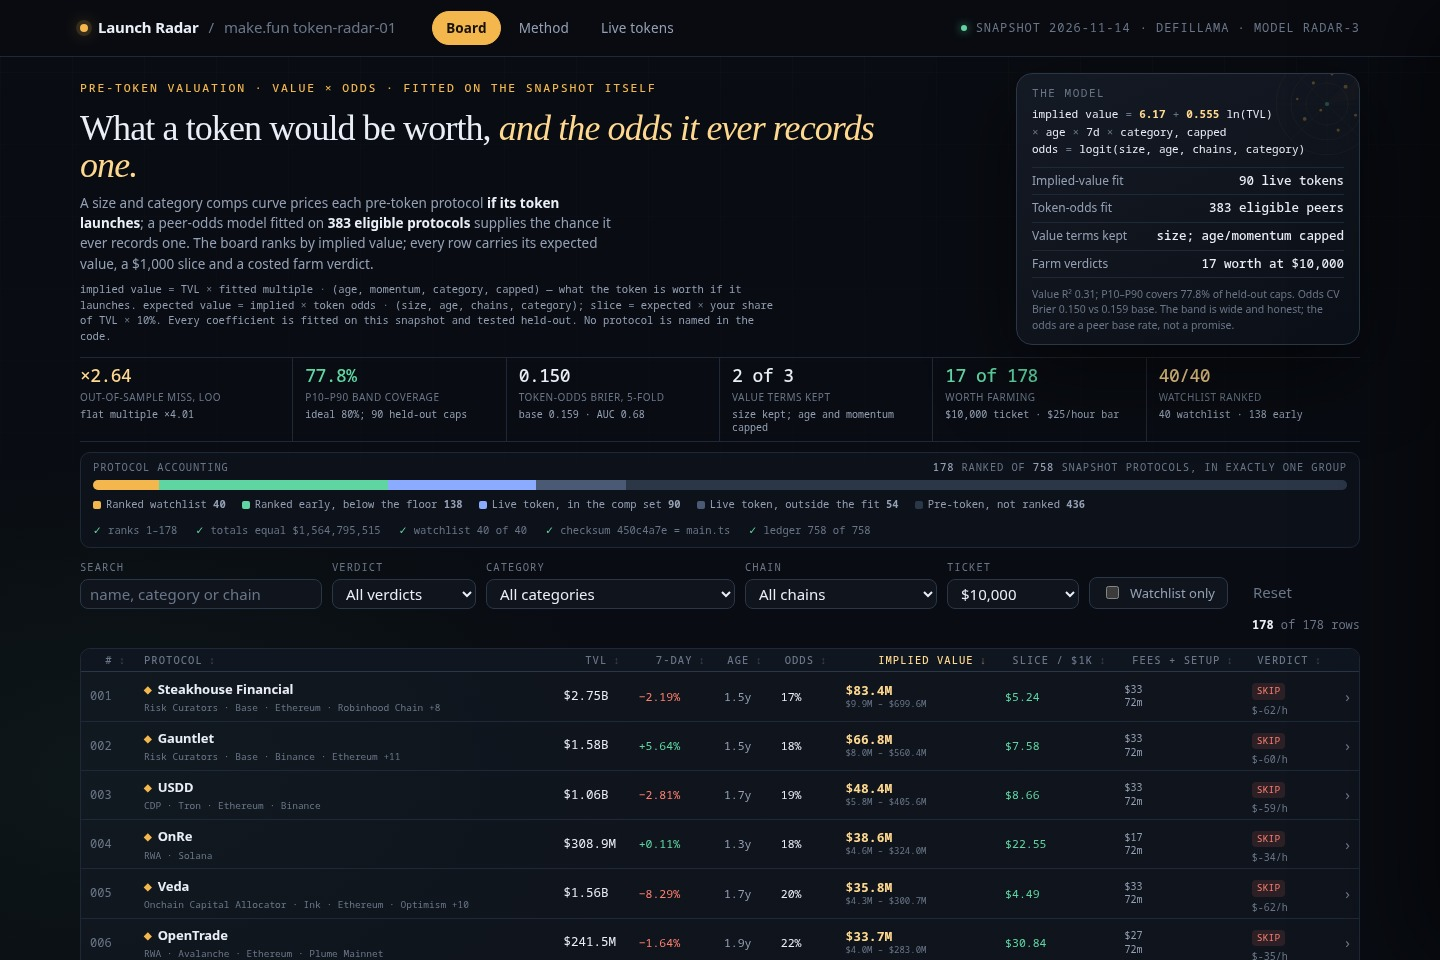
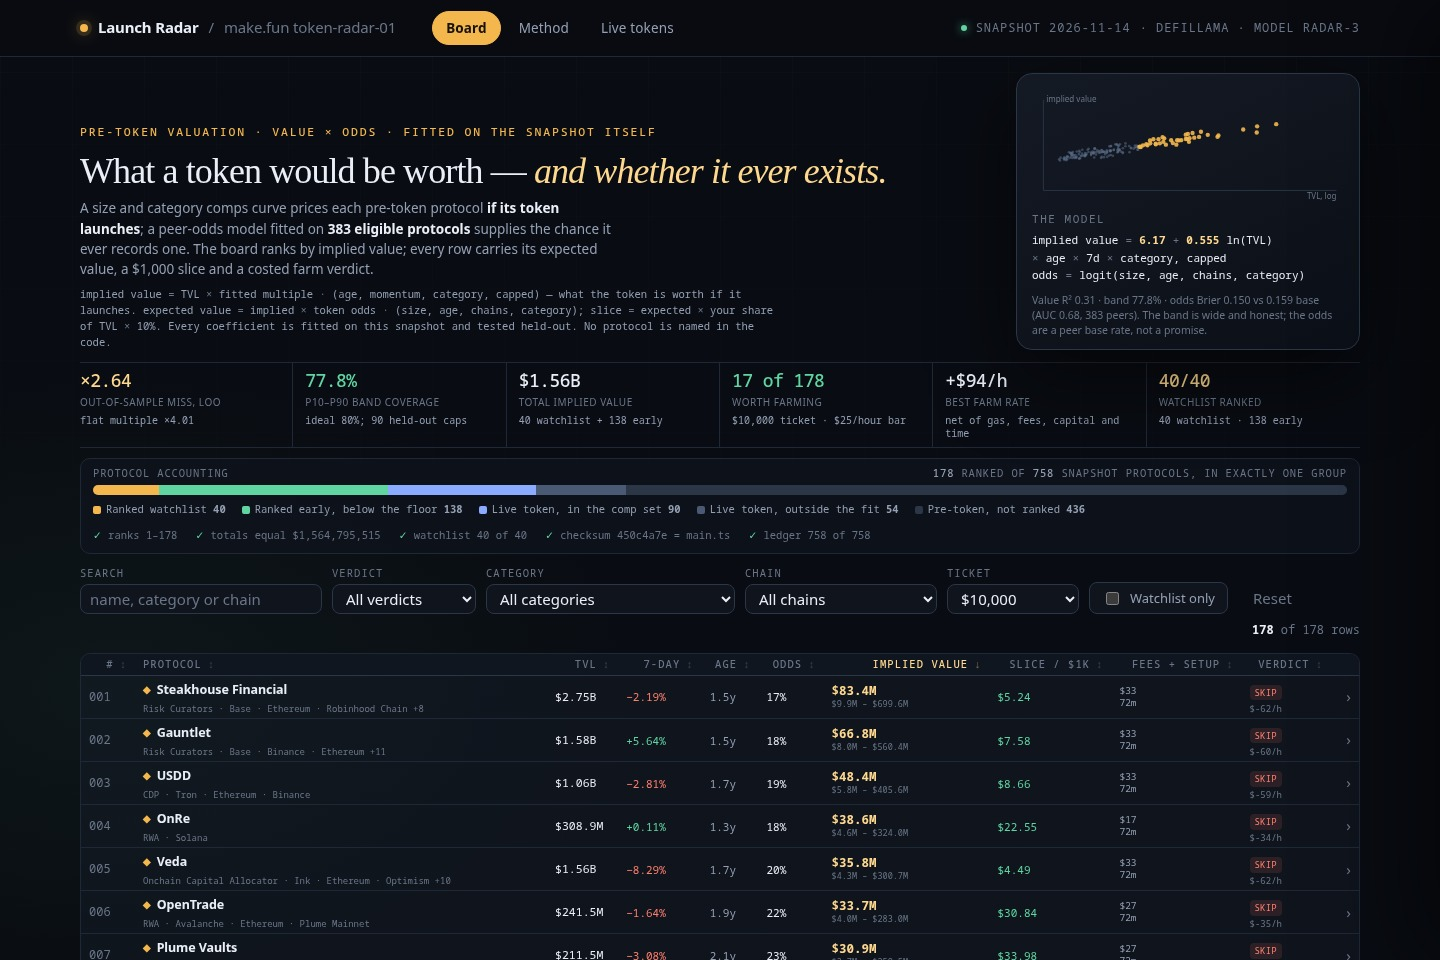
Launch Radar v4: value map, total-implied and best-rate tiles, launch-value ranking

diff --git a/dashboard/app.css b/dashboard/app.css
@@ -110,13 +110,9 @@ h1 em { font-style: italic; color: var(--amber-2); }
 .eq { margin: 0 0 9px; color: var(--ink); font: 11px/1.6 var(--mono); word-spacing: 0.5px; }
 .eq b { color: var(--amber-2); font-weight: 600; }
 .eq .op { color: var(--dim); }
-.factors { list-style: none; margin: 0; padding: 0; border-top: 1px solid var(--line); }
-.factors li { display: grid; grid-template-columns: 1fr auto; gap: 8px; padding: 4px 0; border-bottom: 1px solid var(--line); font-size: 12px; }
-.factors li span:first-child { color: var(--muted); }
-.factors li b { font: 500 12.5px/1.4 var(--mono); color: var(--ink); }
 .card-foot { margin: 9px 0 0; color: var(--dim); font-size: 10.5px; line-height: 1.45; }
-.radar { position: absolute; right: -30px; top: -32px; width: 124px; height: 124px; opacity: 0.28; }
-.radar svg { width: 100%; height: 100%; display: block; }
+.value-map { margin: 0 0 8px; }
+.value-map svg { width: 100%; height: 118px; display: block; }
 
 /* tiles */
 .tiles { display: grid; grid-template-columns: repeat(6, 1fr); border-block: 1px solid var(--line); margin: 0 0 10px; }
@@ -171,7 +167,7 @@ h1 em { font-style: italic; color: var(--amber-2); }
 table { width: 100%; border-collapse: collapse; }
 thead th {
   position: sticky; top: 0; z-index: 2;
-  padding: 6px 9px; background: #101620;
+  padding: 5px 8px; background: #101620;
   border-bottom: 1px solid var(--line-2);
   color: var(--dim); font: 500 10.5px/1 var(--mono); letter-spacing: 0.1em; text-transform: uppercase; text-align: left;
   white-space: nowrap;
@@ -185,29 +181,29 @@ tbody tr { border-bottom: 1px solid var(--line); cursor: pointer; }
 tbody tr:last-child { border-bottom: 0; }
 tbody tr:hover { background: rgba(243, 183, 78, 0.045); }
 tbody tr.open { background: rgba(243, 183, 78, 0.06); }
-tbody td { padding: 5px 9px; vertical-align: middle; }
+tbody td { padding: 3px 8px; vertical-align: middle; }
 td.rank { width: 54px; color: var(--dim); font: 12px/1 var(--mono); }
 .proto { display: flex; flex-direction: column; gap: 3px; }
-.proto b { font-size: 13px; font-weight: 600; letter-spacing: -0.005em; }
-.proto small { color: var(--dim); font: 9.5px/1.3 var(--mono); }
+.proto b { font-size: 12.5px; font-weight: 600; letter-spacing: -0.005em; }
+.proto small { color: var(--dim); font: 9px/1.25 var(--mono); }
 .proto .watch { color: var(--amber); margin-right: 6px; font-size: 10px; vertical-align: 1px; }
-td.money { font: 12.5px/1 var(--mono); white-space: nowrap; }
-td.growth { font: 11.5px/1 var(--mono); white-space: nowrap; }
+td.money { font: 11.5px/1 var(--mono); white-space: nowrap; }
+td.growth { font: 11px/1 var(--mono); white-space: nowrap; }
 td.growth.up { color: var(--mint); }
 td.growth.down { color: var(--red); }
-td.age { color: var(--muted); font: 11.5px/1 var(--mono); white-space: nowrap; }
+td.age { color: var(--muted); font: 11px/1 var(--mono); white-space: nowrap; }
 td.value { min-width: 150px; }
-td.odds { font: 11.5px/1 var(--mono); white-space: nowrap; }
-td.slice { color: var(--mint); font: 11.5px/1 var(--mono); white-space: nowrap; }
-td.fees { color: var(--muted); font: 10px/1.35 var(--mono); white-space: nowrap; }
-td.value b { display: block; font: 600 13px/1 var(--mono); color: var(--amber-2); }
-td.value small { display: block; margin-top: 2px; color: var(--dim); font: 9px/1.2 var(--mono); }
+td.odds { font: 11px/1 var(--mono); white-space: nowrap; }
+td.slice { color: var(--mint); font: 11px/1 var(--mono); white-space: nowrap; }
+td.fees { color: var(--muted); font: 9.5px/1.3 var(--mono); white-space: nowrap; }
+td.value b { display: block; font: 600 12.5px/1 var(--mono); color: var(--amber-2); }
+td.value small { display: block; margin-top: 2px; color: var(--dim); font: 8.5px/1.2 var(--mono); }
 td.verdict { white-space: nowrap; }
-.badge { display: inline-block; padding: 1px 5px; border-radius: 4px; font: 9.5px/1.5 var(--mono); letter-spacing: 0.02em; text-transform: uppercase; }
+.badge { display: inline-block; padding: 1px 5px; border-radius: 4px; font: 9px/1.5 var(--mono); letter-spacing: 0.02em; text-transform: uppercase; }
 .badge.worth { background: rgba(95, 214, 162, 0.14); color: var(--mint); }
 .badge.marginal { background: rgba(243, 183, 78, 0.14); color: var(--amber-2); }
 .badge.skip { background: rgba(255, 127, 110, 0.12); color: var(--red); }
-td.verdict small { display: block; margin-top: 3px; color: var(--dim); font: 10px/1.2 var(--mono); }
+td.verdict small { display: block; margin-top: 2px; color: var(--dim); font: 9px/1.2 var(--mono); }
 td.chev { width: 28px; color: var(--dim); text-align: right; }
 .footnote { margin: 12px 2px 0; color: var(--dim); font-size: 12px; }
 .footnote b { color: var(--muted); font-weight: 500; }

diff --git a/dashboard/app.js b/dashboard/app.js
@@ -72,7 +72,27 @@
 
   // ------------------------------------------------------------------ chrome, tiles, ledger
 
+  function renderValueMap() {
+    var el = $('value-map');
+    if (!el) return;
+    var w = 330, h = 118, pad = 12, x0 = 6.5, x1 = 10.2, y0 = 5.0, y1 = 9.0;
+    var sx = function (v) { return pad + (v - x0) / (x1 - x0) * (w - pad - 8); };
+    var sy = function (v) { return h - pad - (v - y0) / (y1 - y0) * (h - pad - 10); };
+    var out = '<svg viewBox="0 0 ' + w + ' ' + h + '" role="img" aria-label="TVL against implied value, log scales">';
+    out += '<line x1="' + pad + '" y1="' + (h - pad) + '" x2="' + (w - 8) + '" y2="' + (h - pad) + '" stroke="#2b3647"/>';
+    out += '<line x1="' + pad + '" y1="10" x2="' + pad + '" y2="' + (h - pad) + '" stroke="#2b3647"/>';
+    out += '<text x="' + (w - 8) + '" y="' + (h - 3) + '" text-anchor="end" fill="#6a7688" font-size="8.5">TVL, log</text>';
+    out += '<text x="' + (pad + 3) + '" y="12" fill="#6a7688" font-size="8.5">implied value</text>';
+    rows.forEach(function (r) {
+      var cx = sx(Math.log10(Math.max(1, r.tvl))), cy = sy(Math.log10(Math.max(1, r.implied)));
+      if (cx < pad || cx > w - 8 || cy < 10 || cy > h - pad) return;
+      out += '<circle cx="' + cx.toFixed(1) + '" cy="' + cy.toFixed(1) + '" r="' + (r.watch ? 2.3 : 1.4) + '" fill="' + (r.watch ? '#f3b74e' : '#5a6b86') + '" fill-opacity="' + (r.watch ? 0.9 : 0.55) + '"/>';
+    });
+    el.innerHTML = out + '</svg>';
+  }
+
   function renderChrome() {
+    renderValueMap();
     $('top-date').textContent = 'snapshot ' + M.as_of;
     $('lede').innerHTML =
       'A size and category comps curve prices each pre-token protocol <b>if its token launches</b>; a peer-odds model fitted on <b>' + O.n +
@@ -83,21 +103,18 @@
     $('eq').innerHTML = 'implied value <span class="op">=</span> <b>' + F.intercept.toFixed(2) + '</b> <span class="op">+</span> <b>' + F.slope.toFixed(3) + '</b> ln(TVL)<br>' +
       '<span class="op">×</span> age <span class="op">×</span> 7d <span class="op">×</span> category, capped<br>' +
       'odds <span class="op">=</span> logit(size, age, chains, category)';
-    var worth = rows.filter(function (r) { return verdictOf(r, state.ticket).label === 'worth'; }).length;
-    $('factors').innerHTML =
-      '<li><span>Implied-value fit</span><b>' + F.n_live + ' live tokens</b></li>' +
-      '<li><span>Token-odds fit</span><b>' + O.n + ' eligible peers</b></li>' +
-      '<li><span>Value terms kept</span><b>size; age/momentum capped</b></li>' +
-      '<li><span>Farm verdicts</span><b>' + worth + ' worth at ' + ticketLabel(state.ticket) + '</b></li>';
-    $('card-foot').textContent = 'Value R² ' + F.r2.toFixed(2) + '; P10–P90 covers ' + pctRank(F.coverage) + ' of held-out caps. Odds CV Brier ' + O.cv_brier.toFixed(3) + ' vs ' + O.base_brier.toFixed(3) + ' base. The band is wide and honest; the odds are a peer base rate, not a promise.';
+    var worthRows = rows.map(function (r) { return { r: r, v: verdictOf(r, state.ticket) }; }).filter(function (x) { return x.v.label === 'worth'; });
+    var worth = worthRows.length;
+    var best = worthRows.reduce(function (m, x) { return Math.max(m, x.v.netHour); }, 0);
+    $('card-foot').textContent = 'Value R² ' + F.r2.toFixed(2) + ' · band ' + pctRank(F.coverage) + ' · odds Brier ' + O.cv_brier.toFixed(3) + ' vs ' + O.base_brier.toFixed(3) + ' base (AUC ' + O.cv_auc.toFixed(2) + ', ' + O.n + ' peers). The band is wide and honest; the odds are a peer base rate, not a promise.';
 
     var blind = F.blinds[0];
     var tiles = [
       ['amber', '×' + blind[6].toFixed(2), 'Out-of-sample miss, LOO', 'flat multiple ×' + blind[7].toFixed(2)],
       ['mint', pctRank(F.coverage), 'P10–P90 band coverage', 'ideal 80%; ' + F.n_live + ' held-out caps'],
-      ['', O.cv_brier.toFixed(3), 'Token-odds Brier, 5-fold', 'base ' + O.base_brier.toFixed(3) + ' · AUC ' + O.cv_auc.toFixed(2)],
-      ['', '2 of 3', 'Value terms kept', 'size kept; age and momentum capped'],
+      ['', usd(M.total_implied_usd), 'Total implied value', M.watchlist + ' watchlist + ' + M.early + ' early'],
       ['mint', worth + ' of ' + rows.length, 'Worth farming', ticketLabel(state.ticket) + ' ticket · $25/hour bar'],
+      ['', '+$' + Math.round(best) + '/h', 'Best farm rate', 'net of gas, fees, capital and time'],
       ['amber', M.watchlist + '/40', 'Watchlist ranked', M.watchlist + ' watchlist · ' + M.early + ' early']
     ];
     $('tiles').innerHTML = tiles.map(function (t) {

diff --git a/dashboard/index.html b/dashboard/index.html
@@ -24,23 +24,14 @@
   <section class="hero" id="hero">
     <div class="hero-copy">
       <p class="kicker">Pre-token valuation · value × odds · fitted on the snapshot itself</p>
-      <h1>What a token would be worth, <em>and the odds it ever records one.</em></h1>
+      <h1>What a token would be worth — <em>and whether it ever exists.</em></h1>
       <p class="lede" id="lede"></p>
       <p class="formula" id="formula"></p>
     </div>
     <aside class="card" aria-label="Model card">
-      <div class="radar" aria-hidden="true">
-        <svg viewBox="0 0 200 200" role="presentation">
-          <g fill="none" stroke="#f3b74e" stroke-opacity="0.28"><circle cx="100" cy="100" r="34"/><circle cx="100" cy="100" r="58"/><circle cx="100" cy="100" r="82"/></g>
-          <g stroke="#f3b74e" stroke-opacity="0.18"><path d="M100 18v164M18 100h164M42 42l116 116M158 42L42 158"/></g>
-          <path d="M100 100 L166 44 A82 82 0 0 1 180 88 Z" fill="#f3b74e" fill-opacity="0.08"/>
-          <g fill="#f3b74e"><circle cx="130" cy="72" r="3.2"/><circle cx="78" cy="66" r="2.6"/><circle cx="146" cy="118" r="2.4"/><circle cx="64" cy="124" r="3"/><circle cx="108" cy="52" r="2"/><circle cx="118" cy="142" r="2.6"/><circle cx="52" cy="92" r="2"/><circle cx="90" cy="110" r="2.2"/></g>
-          <circle cx="100" cy="100" r="3.4" fill="#5fd6a2"/>
-        </svg>
-      </div>
+      <div class="value-map" id="value-map" aria-hidden="true"></div>
       <p class="card-kicker">The model</p>
       <p class="eq" id="eq"></p>
-      <ul class="factors" id="factors"></ul>
       <p class="card-foot" id="card-foot"></p>
     </aside>
   </section>

diff --git a/README.md b/README.md
@@ -4,7 +4,7 @@
 [![rank](https://make.fun/badge/token-radar-01/aviharez/launch-radar/rank.svg)](https://make.fun/bounty/token-radar-01/leaderboard?utm_source=github&utm_medium=readme&utm_campaign=token-radar-01)
 [![reward](https://make.fun/badge/token-radar-01/aviharez/launch-radar/reward.svg)](https://make.fun/bounty/token-radar-01?utm_source=github&utm_medium=readme&utm_campaign=token-radar-01)
 
-Launch Radar v3: a launch-value comps curve and a peer-odds model, both fitted on one frozen DefiLlama snapshot, ranking 178 pre-token protocols by implied value. Every row carries its 10–90% band, token odds, a $1,000 slice, fees and setup time, and a costed farm verdict in net dollars per hour — with two blind tests, band honesty, and a ledger of all 758 protocols.
+Launch Radar v4: a launch-value comps curve and a peer-odds model, both fitted on one frozen DefiLlama snapshot, ranking 178 pre-token protocols by implied value. Every row carries its 10–90% band, token odds, a $1,000 slice, fees and setup time, and a costed farm verdict in net dollars per hour — with a value map, two blind tests, band honesty, and a ledger of all 758 protocols.
 
 ## Run it
 
